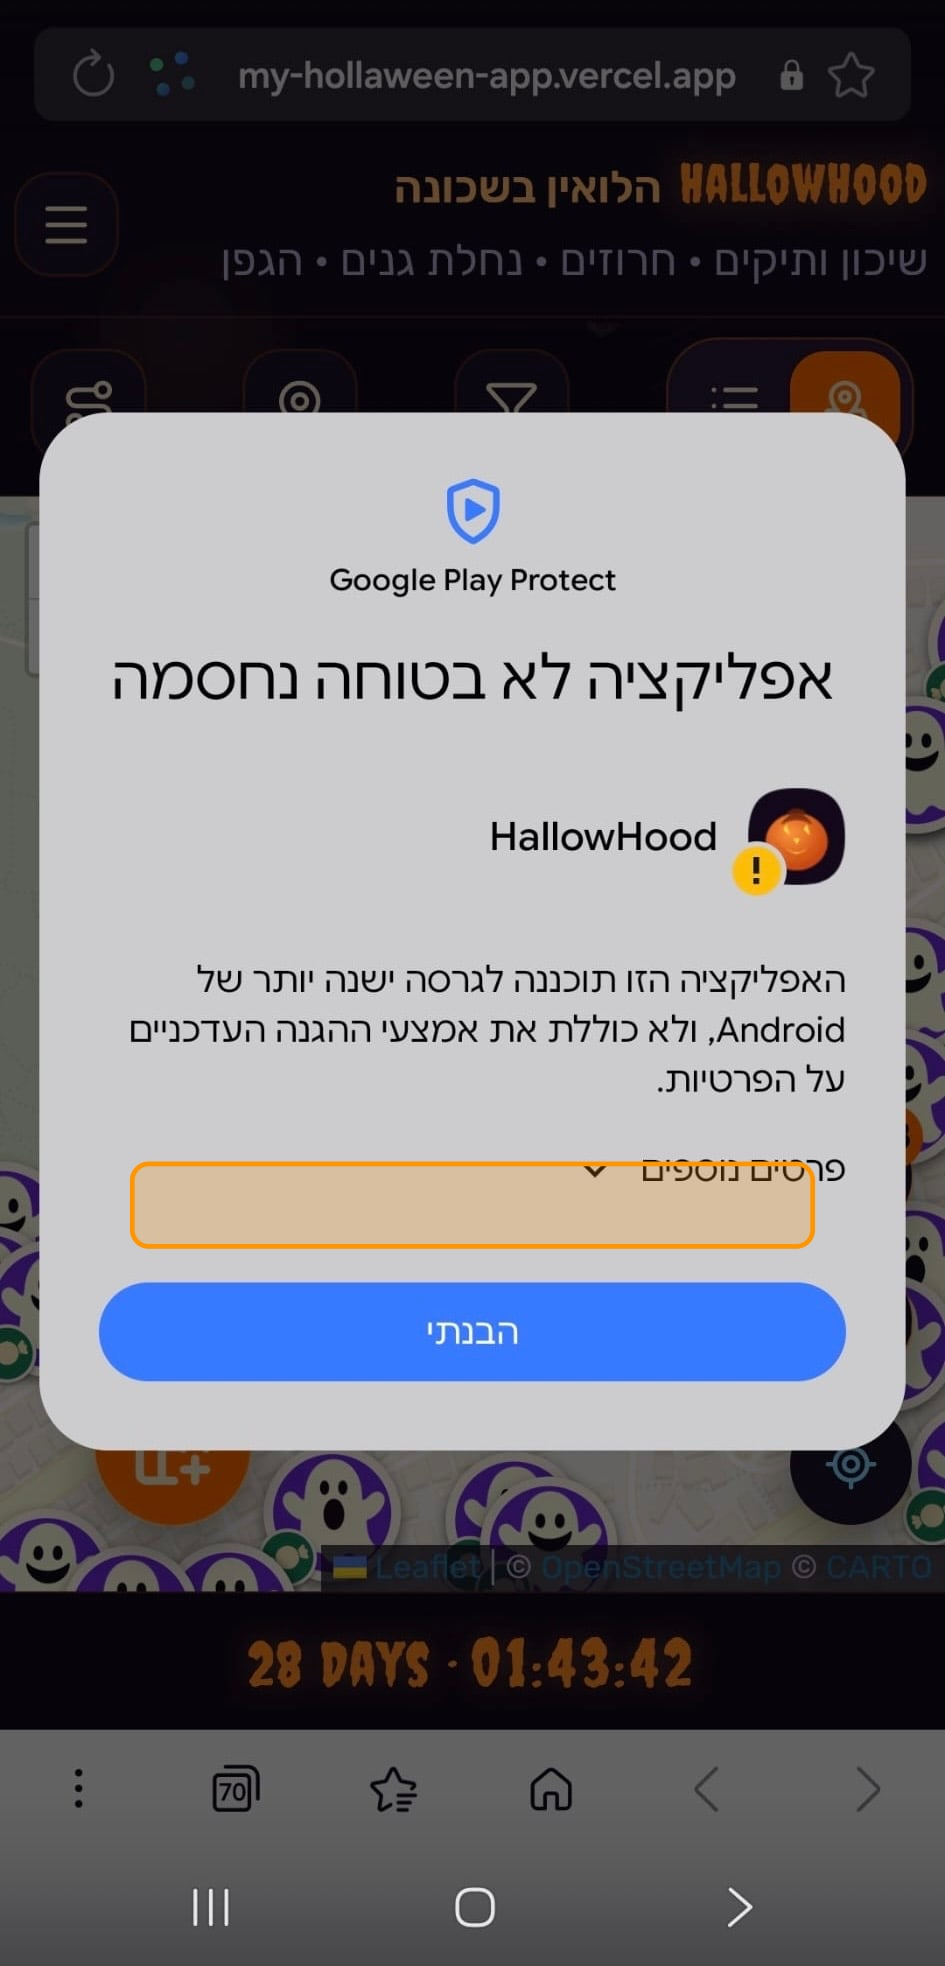
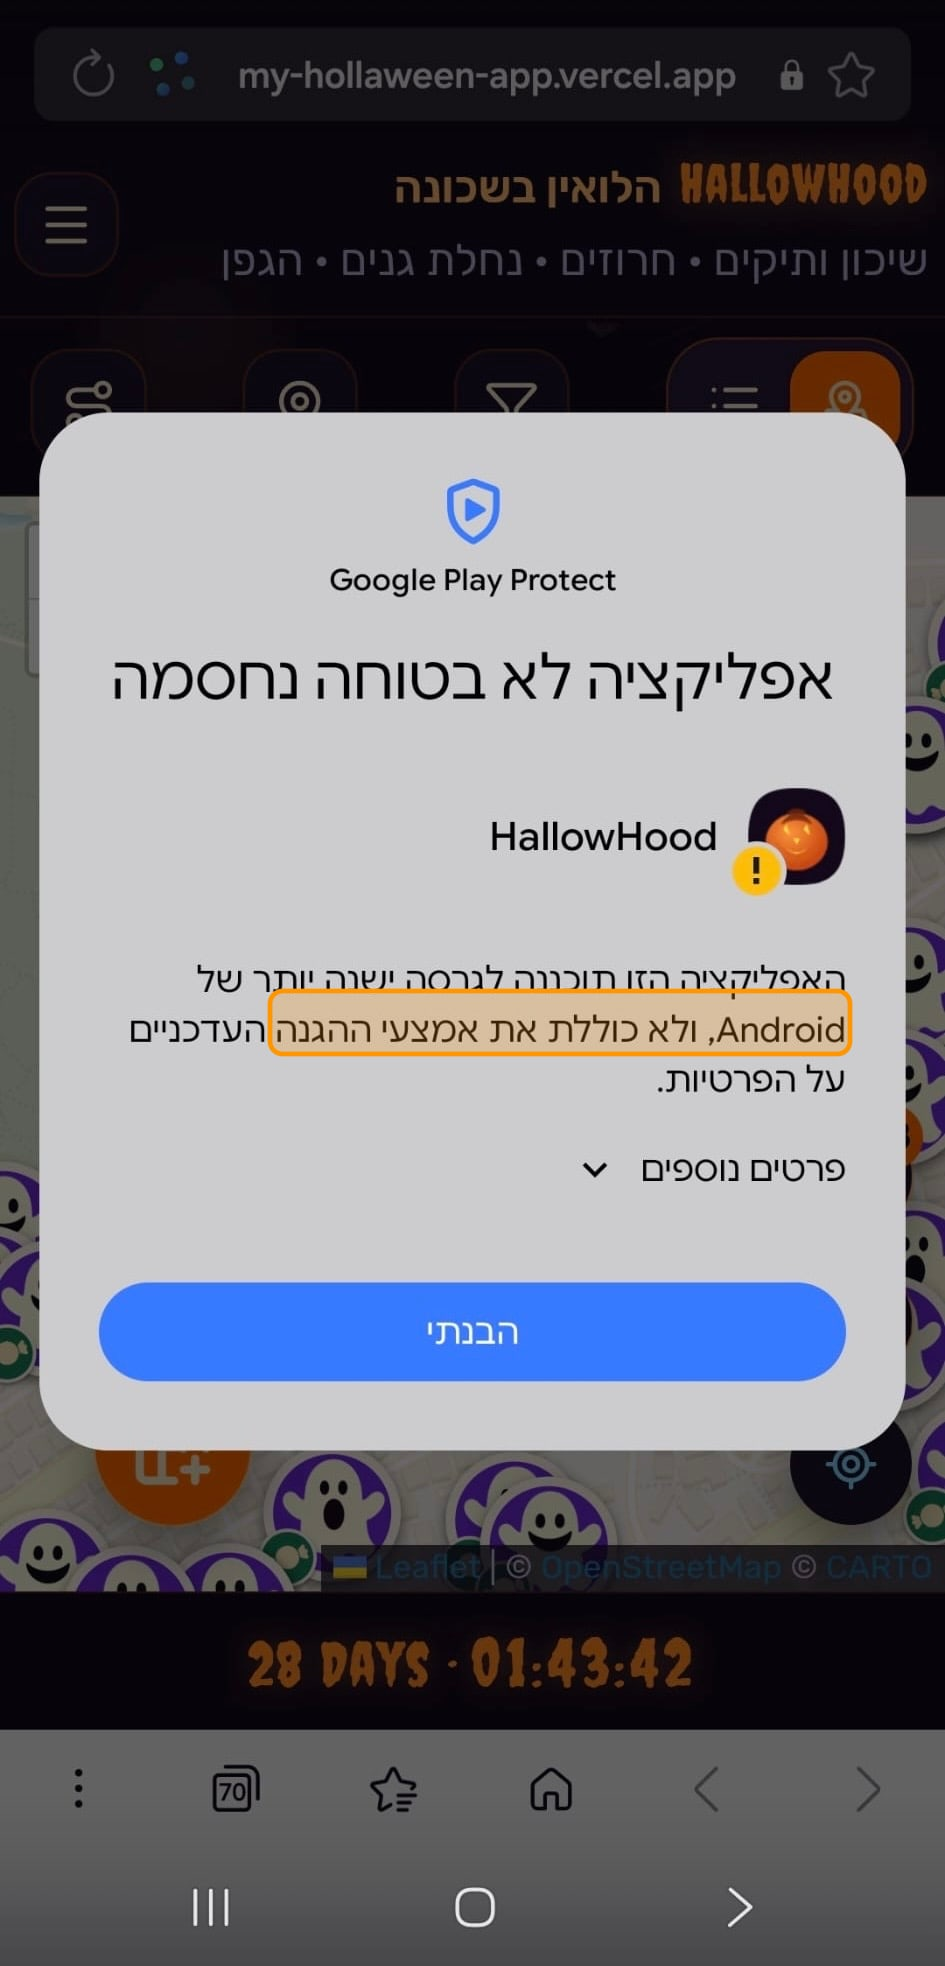
fix(install-help): single Android step, larger iOS ring, Play Protect box
Drop redundant Android step 1; fold Chrome/delete-app notes into the install step.
Detect פרטים נוספים row for a right-aligned highlight instead of full-width bar.
Increase iOS Share highlight radius.

Changed region(s): [[0.1228, 0.5895, 0.8899, 0.6516], [0.2762, 0.4964, 0.9206, 0.5585]]

diff --git a/src/app/help/install/page.tsx b/src/app/help/install/page.tsx
@@ -43,14 +43,8 @@ const IPHONE_STEPS = [
 
 const ANDROID_STEPS = [
   {
-    title: "פתחו ב-Chrome",
-    body: "השתמשו ב-Google Chrome (לא Samsung Internet). אם HallowHood כבר מותקנת ו-Google חוסם — מחקו אותה מהגדרות → אפליקציות.",
-    image: installHelpImage("android-1-app.jpg"),
-    imageAlt: "HallowHood ב-Chrome",
-  },
-  {
     title: "התקנת האפליקציה",
-    body: "לחצו על **התקנת האפליקציה** (אייקון ההורדה בראש המסך) ואשרו בהתקנה.",
+    body: "פתחו את האתר ב-**Google Chrome** (לא Samsung Internet). לחצו על **התקנת האפליקציה** (אייקון ההורדה בראש המסך) ואשרו בהתקנה. אם HallowHood כבר מותקנת ו-Google חוסם — מחקו אותה מהגדרות → אפליקציות ונסו שוב.",
     image: installHelpImage("android-2-install.jpg"),
     imageHighlight: ANDROID_INSTALL_DOWNLOAD_HIGHLIGHT,
     imageAlt: "כפתור התקנת האפליקציה ב-Chrome",
@@ -91,7 +85,7 @@ function AndroidInstallSection() {
       <p className="text-base leading-relaxed text-violet-200/90">
         <HelpText>
           {
-            "באנדרואיד: התקינו דרך כפתור **התקנת האפליקציה** בראש המסך (Chrome). בטלפונים חדשים Google Play Protect לפעמים חוסם — זה לא באג באתר; ראו **פתרון** למטה."
+            "בטלפונים חדשים Google Play Protect לפעמים חוסם אחרי ההתקנה — זה לא באג באתר; ראו **פתרון** למטה."
           }
         </HelpText>
       </p>

diff --git a/src/lib/help-images.ts b/src/lib/help-images.ts
@@ -1,5 +1,5 @@
 /** Real app screenshots (PNG) under /images/help — not /help/* (avoids App Router route clash). */
-const HELP_IMAGES_VERSION = "20";
+const HELP_IMAGES_VERSION = "21";
 
 export function helpImage(path: string) {
   const file = path.replace(/^\//, "");

diff --git a/src/lib/help-shot-highlight.ts b/src/lib/help-shot-highlight.ts
@@ -8,7 +8,7 @@ export const IOS_INSTALL_SHARE_HIGHLIGHT: HelpShotHighlight = {
   kind: "ring",
   cx: 0.495,
   cy: 0.923,
-  r: 0.045,
+  r: 0.058,
 };
 
 /** iOS share sheet — **Add to Home Screen** row (924×2000 reference). */
